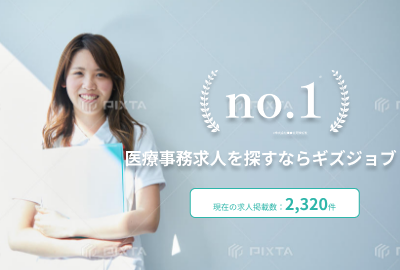
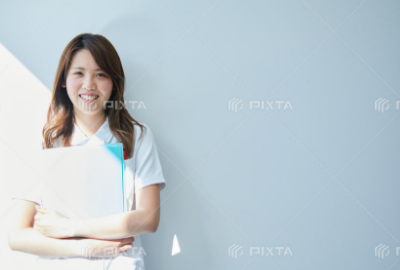
PC静的コーディング<後半>レスポンシブキービジュアル～お仕事検索まで実装

diff --git a/src/index.html b/src/index.html
@@ -34,7 +34,7 @@
   <main class="l-main">
     <div class="l-main__key-visual">
       <picture class="c-main__key-visual-picture">
-        <source srcset="../img/picture/keyvisual_sp.png 1x" media="(max-width: 767px)">
+        <source srcset="./img/picture/keyvisual_sp.png" media="(max-width: 767px)" width="400" height="270">
         <img src="./img/picture/keyvisual.png" alt="医療事務求人を探すならギズジョブ" width="1600" height="500" class="c-main__key-visual">
       </picture>
       <img src="./img/picture/keyvisual-logo.png" alt="2021年使ってよかった転職サイト" width="342" height="168" class="c-main__key-visual-logo">
@@ -96,7 +96,6 @@
           <div class="c-select__button is-left"><a href="" class="c-select__button__arrow_left"></a></div>
           <div class="l-main__new-recruit-item">
             <picture class="recruit-picture">
-              <source srcset="../img/picture/recruit_sp_1.png 1x" media="(max-width: 767px)">
               <img src="./img/picture/recruit_1.jpg" alt="平日・夕方までの勤務!伊勢市の伊勢赤十字病院で医療事務求人" width="280" height="200">
             </picture>
             <div class="recruit-info">
@@ -121,7 +120,6 @@
           </div>
           <div class="l-main__new-recruit-item">
             <picture class="recruit-picture">
-              <source srcset="./img/picture/recruit_sp_1.png 1x" media="(max-width: 767px)">
               <img src="./img/picture/recruit_2.jpg" alt="平日・夕方までの勤務!伊勢市の伊勢赤十字病院で医療事務求人" width="280" height="200">
             </picture>
             <div class="recruit-info">
@@ -146,7 +144,6 @@
           </div>
           <div class="l-main__new-recruit-item">
             <picture class="recruit-picture">
-              <source srcset="./img/picture/recruit_sp_1.png 1x" media="(max-width: 767px)">
               <img src="./img/picture/recruit_3.jpg" alt="平日・夕方までの勤務!伊勢市の伊勢赤十字病院で医療事務求人" width="280" height="200">
             </picture>
             <div class="recruit-info">
@@ -171,7 +168,6 @@
           </div>
           <div class="l-main__new-recruit-item">
             <picture class="recruit-picture">
-              <source srcset="./img/picture/recruit_sp_1.png 1x" media="(max-width: 767px)">
               <img src="./img/picture/recruit_4.jpg" alt="平日・夕方までの勤務!伊勢市の伊勢赤十字病院で医療事務求人" width="280" height="200">
             </picture>
             <div class="recruit-info">

diff --git a/src/css/object/project/jobsearch.scss b/src/css/object/project/jobsearch.scss
@@ -6,9 +6,14 @@
   padding-top: 60px;
   padding-bottom: 60px;
   width: 100%;
+  
+  @include utility.sp {
+    padding: 25px 15px;
+    width: 100%;
+  }
 
 }
-  
+
 .l-main__select-area {
   margin:0 auto;
   display: flex;
@@ -20,6 +25,13 @@
   height: 240px;
   width: 1180px;
   border-radius: 10px;
+  
+  @include utility.sp {
+    padding: 15px 25px 20px;
+    height: 240px;
+    width: 370px;
+    border-radius: 10px;
+  }
 
   &-text {
     text-align: center;
@@ -35,10 +47,27 @@
       padding-bottom: 9px;
 
     }
+
+    @include utility.sp {
+      h1 {
+        font-size: 22px;
+      }
+      h2 {
+        font-size: 14px;
+        padding-top: 16px;
+        padding-bottom: 0px;
+      }
+    }
   }
 
   &-form {
-    padding-top: 25px ;
+    padding-top: 25px;
+
+    @include utility.sp {
+      padding-top: 13px;
+      flex-wrap: wrap;
+    }
+
 
     input {
       border-color: #DE5579;
@@ -48,6 +77,13 @@
       height: 60px;
       width: 300px;
       font-size: 18px;
+
+      @include utility.sp {
+        border-radius: 5px;
+        height: 30px;
+        width: 320px;
+        font-size: 14px;
+      }
     }
   
     button {
@@ -57,6 +93,13 @@
       background-position: center left 20px;
       background-repeat: no-repeat;
       background-size: 30px;
+
+      @include utility.sp {
+        margin: 4px auto;
+        height: 40px;
+        width: 160px;
+        font-size: 18px;
+      }
     
 
       &.is-job-search {
@@ -64,8 +107,34 @@
         background-repeat: no-repeat;
         background-size: 29.98px 29.98px;
         background-image: url("../img/icon/icon-search-fff.png");
+
+        @include utility.sp {
+          background-size: 17.98px 17.97px;
+        }
       }
     }
   }
 
 }
+
+// @media screen and (max-width: 767px) {
+//   .l-main__select {
+//     padding: 25px 15px;
+//     width: 100%;
+//   }
+
+//   .l-main__select-area {
+//     margin:0 auto;
+//     display: flex;
+//     flex-direction: column;
+//     align-items: center;
+//     justify-items: center;
+//     background-color: #DEEEF9;
+//     padding-top: 15px;
+//     padding-bottom: 20px;
+//     height: 240px;
+//     width: 370px;
+//     border-radius: 10px;
+    
+//   }
+// }

diff --git a/src/css/object/project/keyvisual.scss b/src/css/object/project/keyvisual.scss
@@ -6,6 +6,11 @@
   position: relative;
   width: 100%;
   margin: 0 auto;
+  @include utility.sp {
+    width: 400px;
+    height: 270px;
+
+  }
 
   .c-main__key-visual {
     display: block;
@@ -29,12 +34,25 @@
     transform: translate(-50%, -50%);
     top: 83%;
     left: 63.5%;
+
+    @include utility.sp {
+      height: 30px;
+      width: 170px;
+      border: solid 1px;
+      border-radius: 5px;
+      font-size: 8px;
+      top: 75%;
+      left: 65%;
+    }
   }
 
   .c-main__key-visual-text span {
     font-style: bold;
     font-weight: 700;
     font-size: 40px;
+    @include utility.sp {
+      font-size: 16px;
+    }
   }
 
   .c-main__key-visual-logo {
@@ -43,7 +61,13 @@
     transform: translate(-50%, -50%);
     top: 28%;
     left: 63.5%;
-    margin-bottom: 54px;
+    // margin-bottom: 54px;
+    @include utility.sp {
+      width: 149.54px;
+      height: 73.36px;
+      top: 40%;
+      left: 65%;
+    }
   }
   .c-main__key-visual-title {
     display: block;
@@ -52,6 +76,12 @@
     top: 59%;
     left: 63.5%;
     margin-bottom: 54px;
+    @include utility.sp {
+      width: 272px;
+      height: 22px;
+      top: 60%;
+      left: 65%;
+    }
   }
 }
 
@@ -60,6 +90,10 @@
   position:relative;
   width: 100%;
   margin: 0 auto;
+  @include utility.sp {
+    width: 400px;
+    height: 75px;
+  }
 
   .c-main__banner-picture {
     width: 100%;
@@ -94,5 +128,14 @@
     font-weight: bold;
     text-align: center;
     line-height: 200%;
+    @include utility.sp {
+      font-size: 14px;
+      font-weight: 400;
+      line-height: 170%;
+      white-space: nowrap;
+
+
+
+    }
   }
 }

diff --git a/src/css/object/component/select.scss b/src/css/object/component/select.scss
@@ -5,6 +5,9 @@
   display: flex;
   gap: 15px;
 
+  @include utility.sp {
+    gap: 15px 10px;
+  }
 }
 
 .select-box {
@@ -20,18 +23,35 @@
     border-top: 10px solid #DE5579;
     border-bottom: 0;
     pointer-events: none;
+    
+    @include utility.sp {
+      top: 12px;
+      right: 8px;
+      border-right: 7px solid transparent;
+      border-left: 7px solid transparent;
+      border-top: 7px solid #DE5579;
+
+
+    }
   }
 
   & > select {
     -webkit-appearance: none;
     appearance: none;
     border-color: #DE5579;
-    border-radius: 10px;
+    border-radius: 5px;
     border-style: 1px;
     padding: 10px;
     height: 60px;
     width: 200px;
     font-size: 18px;
 
+    @include utility.sp {
+      height: 30px;
+      width: 100px;
+      font-size: 12px;
+      padding: 6px 8px;
+
+    }
   }
   }

diff --git a/src/css/object/project/column.scss b/src/css/object/project/column.scss
@@ -66,11 +66,8 @@
 
   .l-main__column-button {
     @include button.c-btn();
-    display: block;
     width: 420px;
     margin: 80px auto 0 auto;
-    color: #fff;
-
   }
 
 }

diff --git a/src/css/object/component/button.scss b/src/css/object/component/button.scss
@@ -4,6 +4,7 @@
 @mixin c-btn() {
   display: flex;
   align-items: center;
+  justify-content: center;
   background-color: #DE5579;
   text-align: center;
   border: none;
